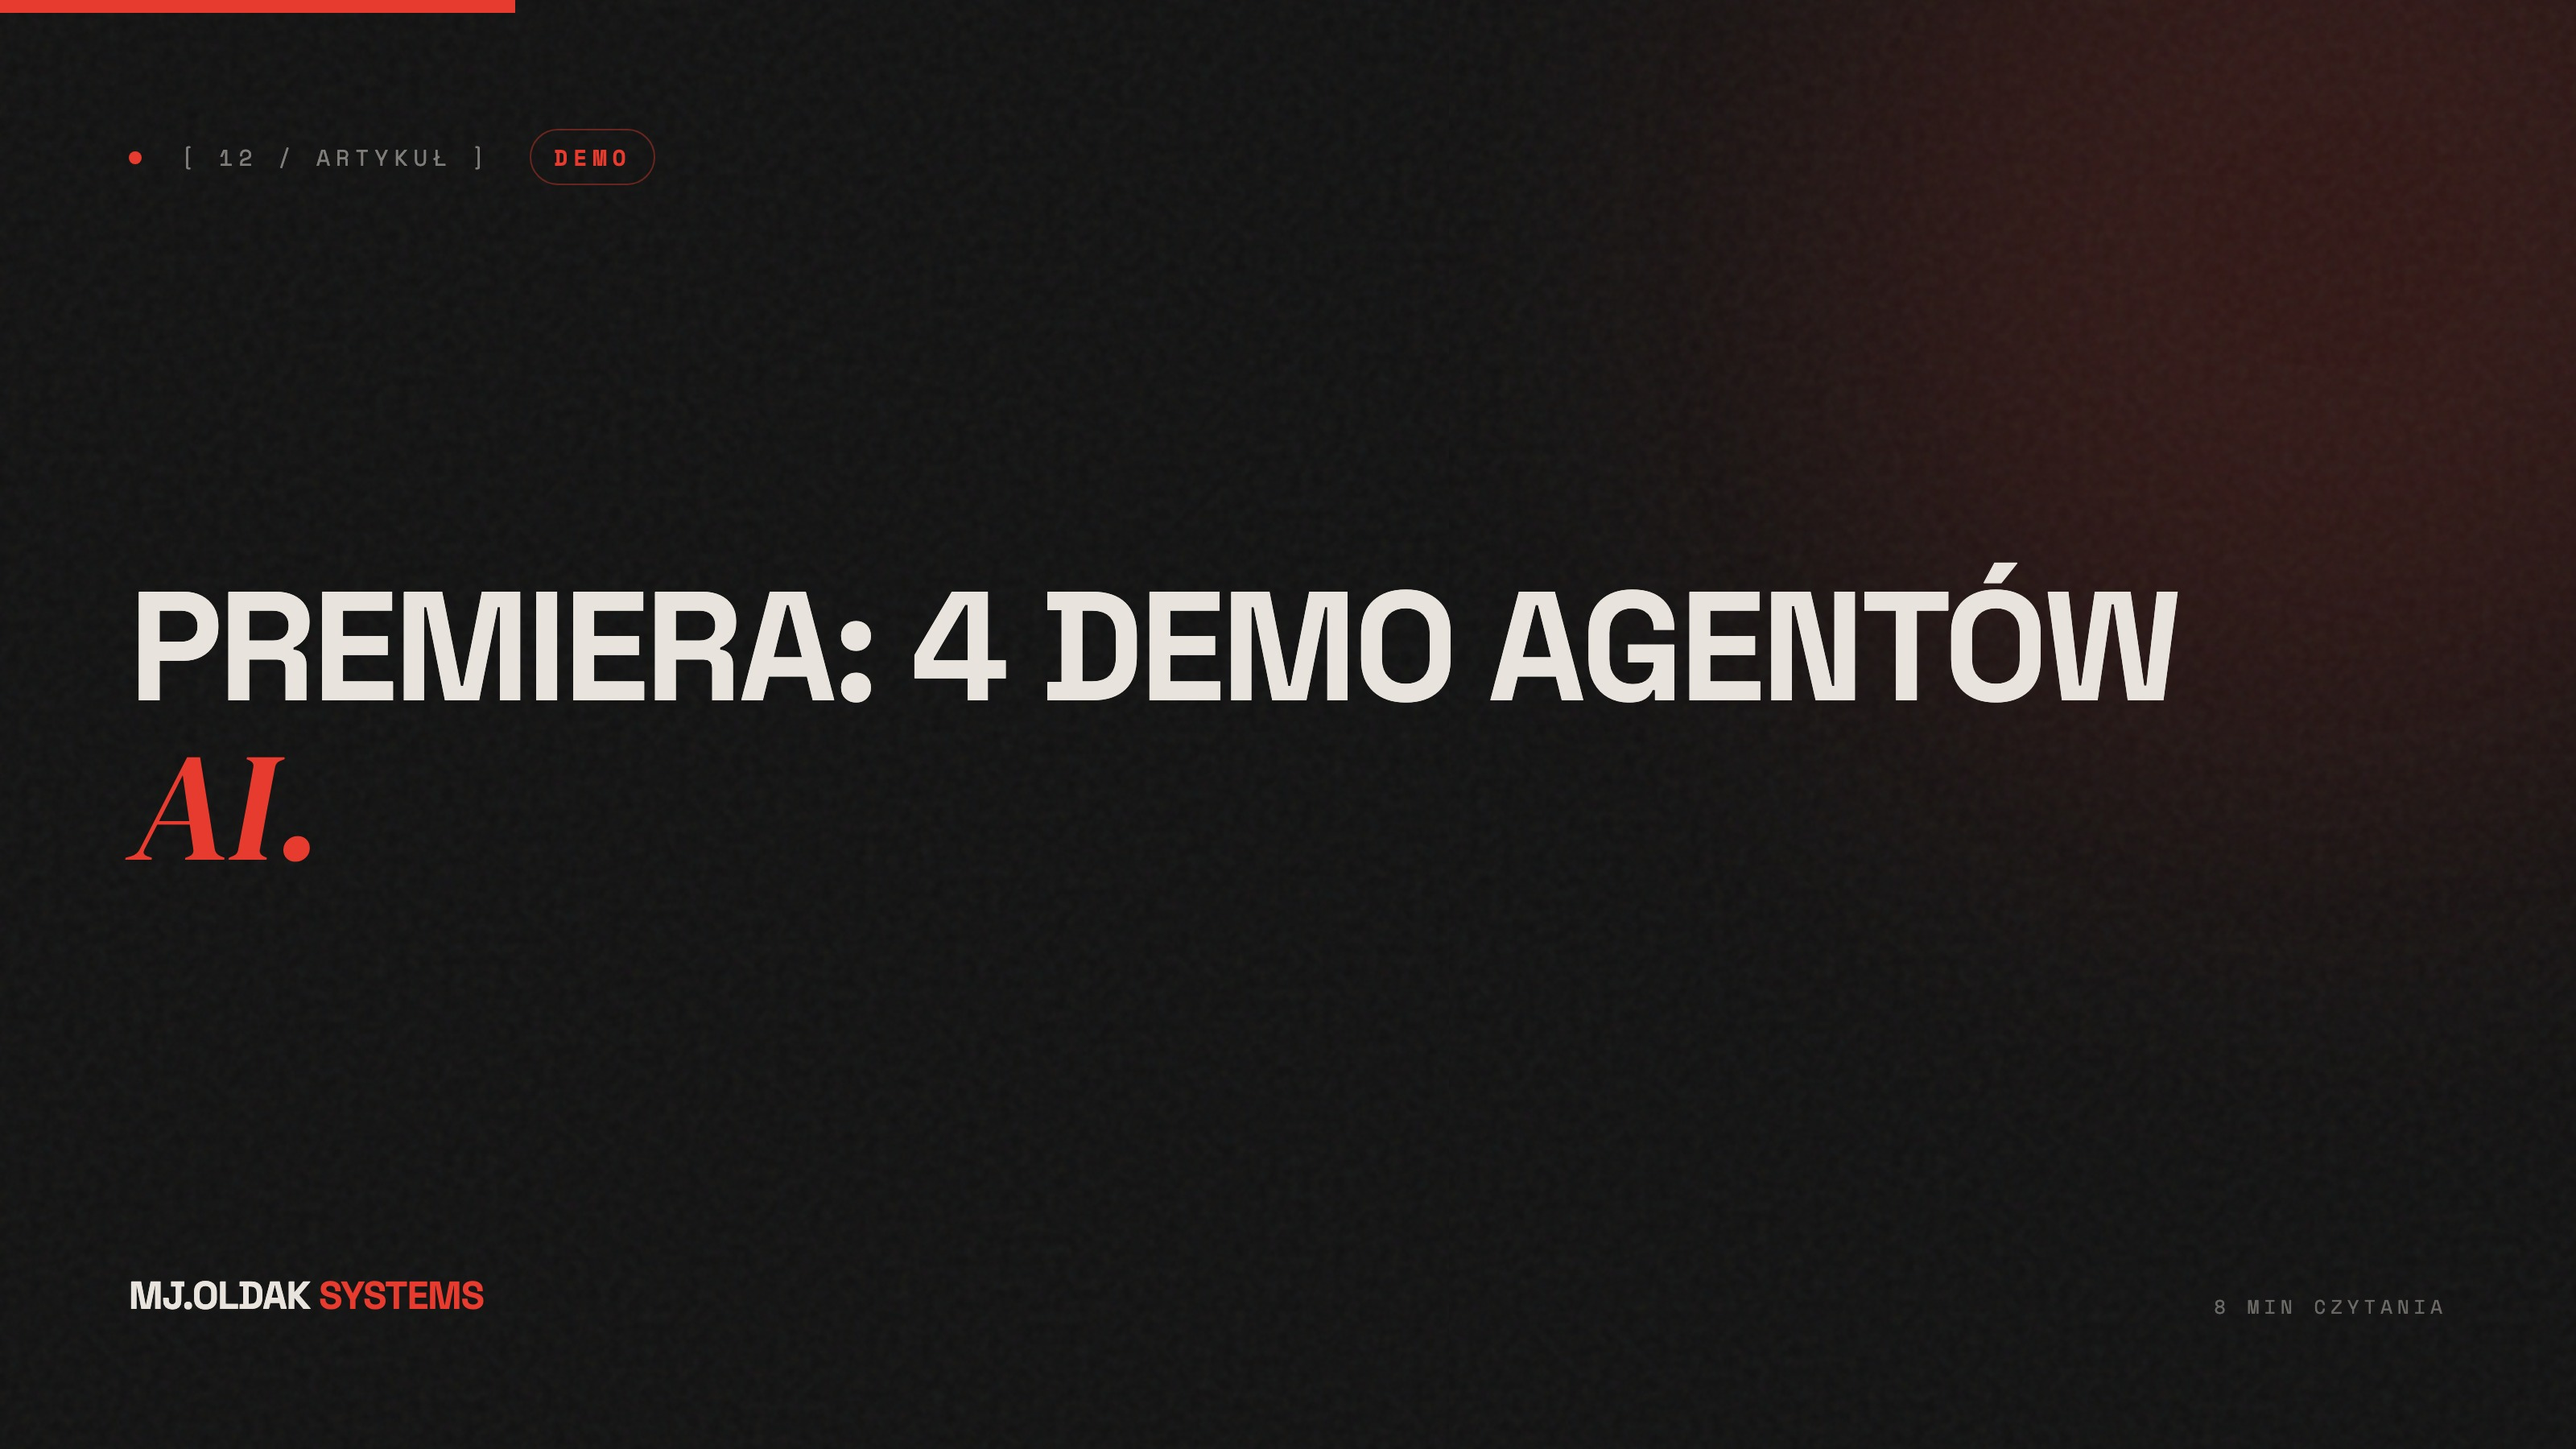
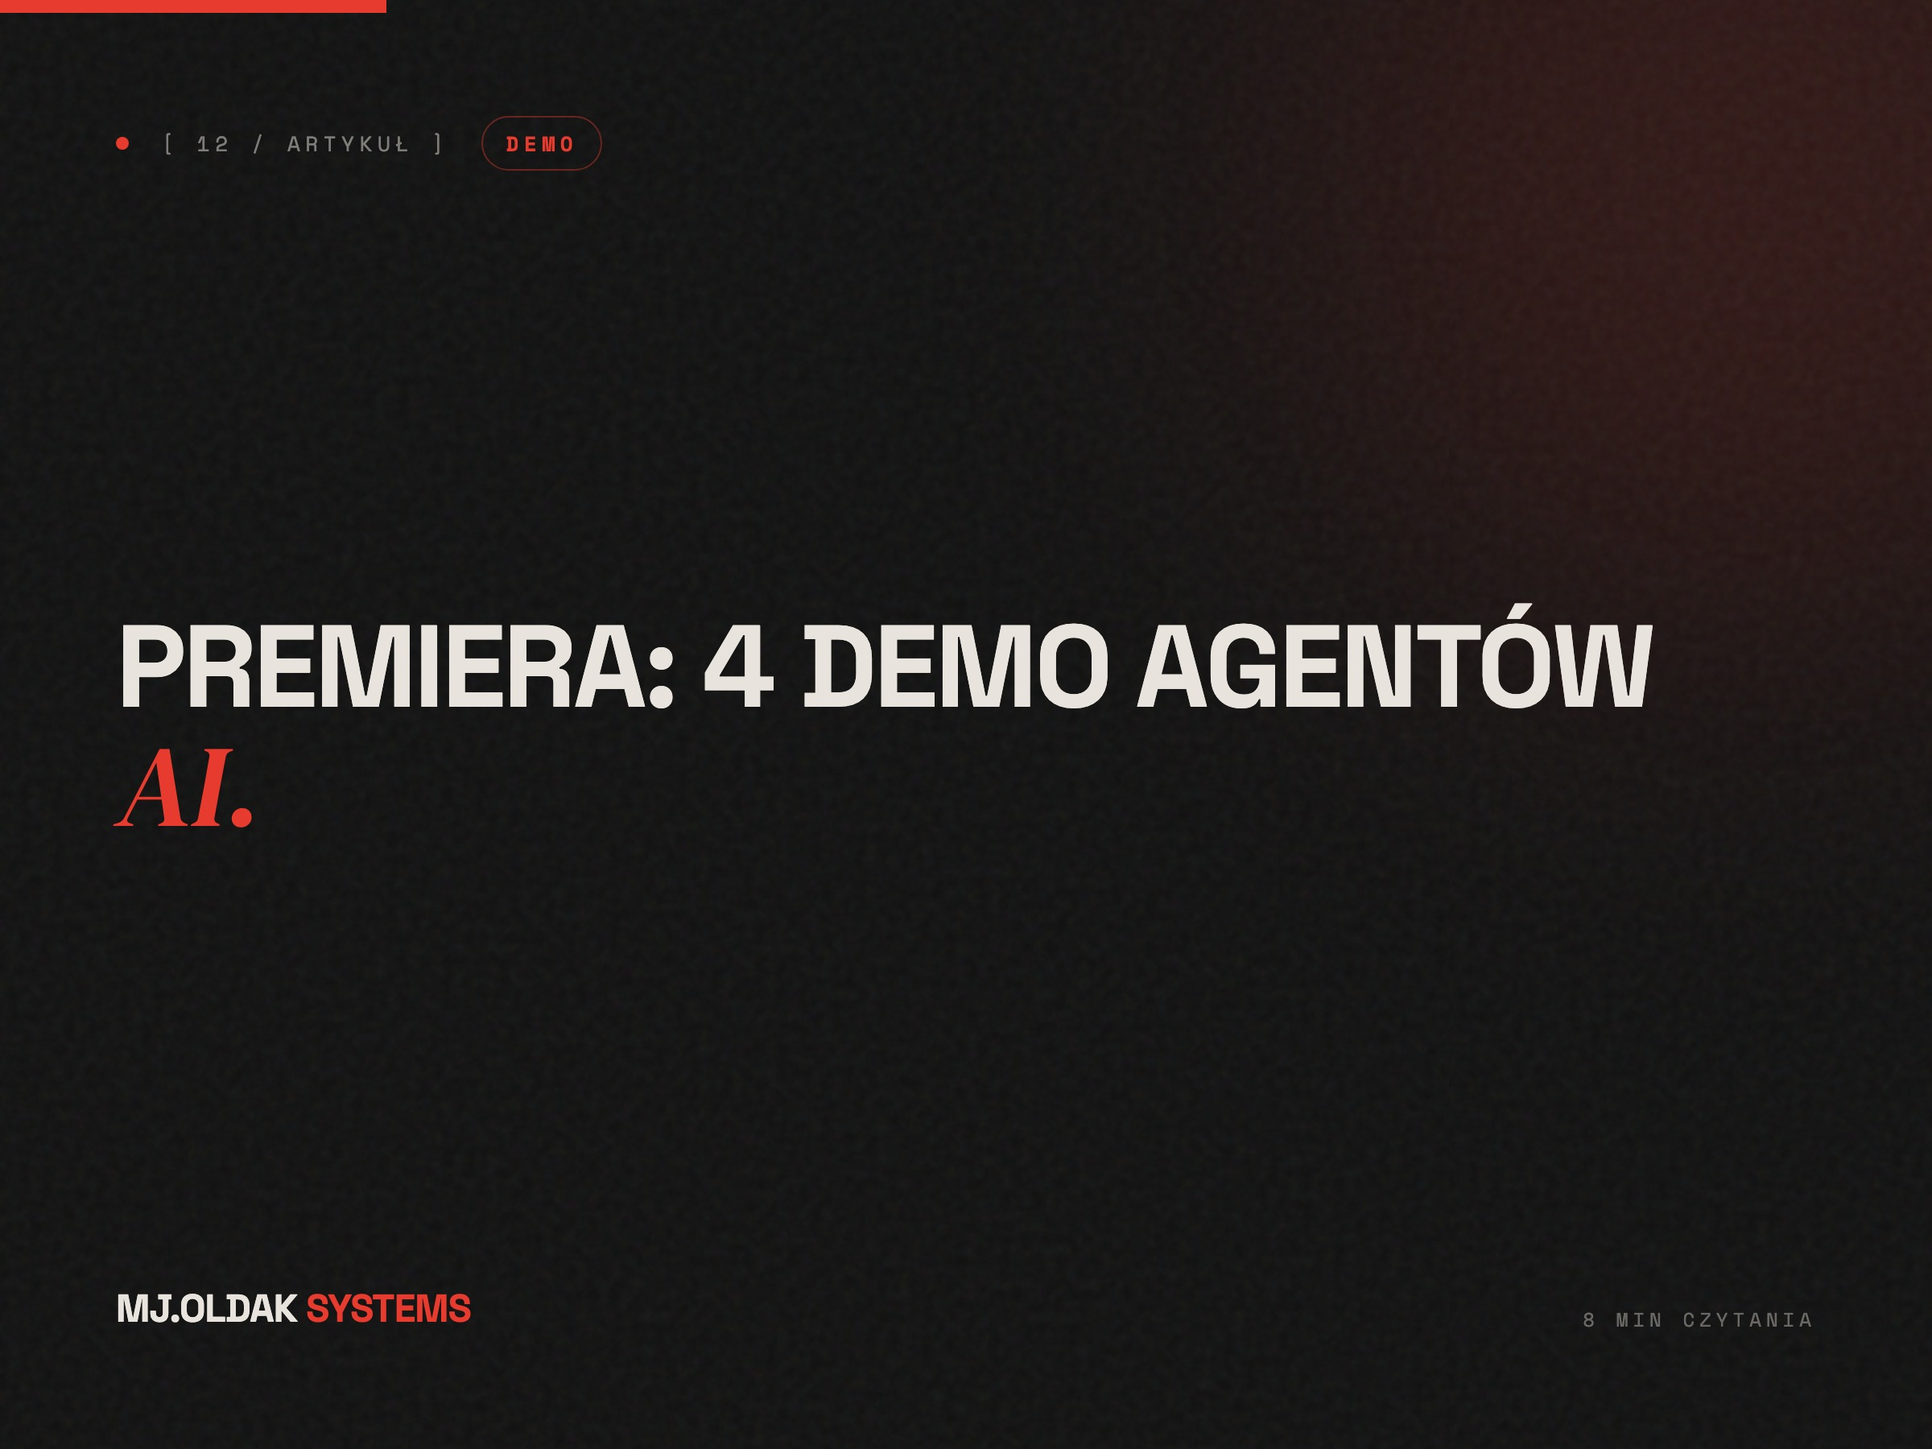
feat(ui): karuzela artykułów, cover 4:3, typografia featured
Zmiany UI po premierze 9 artykułów:

1. Cover template 4:3 (1200x900 zamiast 1600x900)
   - Poprawia wyświetlanie w kartach — bez kropowania tekstu
   - Regeneracja 12 coverów (build_visuals.py)
   - title_size recalibrated pod węższy canvas (base 84, min 52)
   - build_visuals.py: env vars MJO_OUT_COVERS/MJO_OUT_BANNERS dla build poza Documents (iCloud)

2. Karuzela 5 losowych artykułów (ArticleCarousel.jsx + Wrapper.astro)
   - Auto-advance 5,5s, hover pauzuje
   - Arrows + dots + swipe mobile
   - Seeded shuffle (stabilny per day) — preferFeatured=true
   - Zastępuje featured hero na /artykuly
   - Zastępuje LatestArticles na home (przed Footer)

3. Typografia kart (ArticlesBrowser)
   - Meta-labels: Space Mono text-[10px] → Space Grotesk 500 text-xs tracking-[0.15em]
   - Tag badges: text-[9px] → text-[10px]
   - Kategoria z font-bold + text-accent
   - Aspect: 16:9 → 4:3 (spójne z nowymi coverami)

4. /artykuly: stara sekcja "PRAKTYCZNA WIEDZA" zastąpiona karuzelą.
   Dodana sekcja "Pełna biblioteka" nad browser gridem.

diff --git a/mj-oldak/src/components/ArticleCarousel.jsx b/mj-oldak/src/components/ArticleCarousel.jsx
@@ -1,0 +1,163 @@
+import { useEffect, useRef, useState } from 'react';
+
+const AUTO_ADVANCE_MS = 5500;
+
+export default function ArticleCarousel({ articles, heading, subheading, sectionLabel }) {
+  const [index, setIndex] = useState(0);
+  const [paused, setPaused] = useState(false);
+  const touchStartX = useRef(null);
+  const count = articles.length;
+
+  useEffect(() => {
+    if (paused || count <= 1) return;
+    const id = setInterval(() => setIndex((i) => (i + 1) % count), AUTO_ADVANCE_MS);
+    return () => clearInterval(id);
+  }, [paused, count]);
+
+  if (count === 0) return null;
+
+  const go = (delta) => setIndex((i) => (i + delta + count) % count);
+
+  const onTouchStart = (e) => { touchStartX.current = e.touches[0].clientX; };
+  const onTouchEnd = (e) => {
+    if (touchStartX.current == null) return;
+    const dx = e.changedTouches[0].clientX - touchStartX.current;
+    if (Math.abs(dx) > 50) go(dx > 0 ? -1 : 1);
+    touchStartX.current = null;
+  };
+
+  return (
+    <section
+      className="relative py-24 md:py-32 px-6 md:px-12 bg-background overflow-hidden"
+      onMouseEnter={() => setPaused(true)}
+      onMouseLeave={() => setPaused(false)}
+      aria-roledescription="carousel"
+      aria-label="Polecane artykuły"
+    >
+      <div className="max-w-7xl mx-auto">
+        {(sectionLabel || heading) && (
+          <div className="mb-10 md:mb-14">
+            {sectionLabel && (
+              <div className="flex items-center gap-2 mb-4">
+                <span className="w-2 h-2 rounded-full bg-accent animate-pulse"></span>
+                <span className="font-sans font-medium text-xs uppercase tracking-[0.2em] text-dark/50">{sectionLabel}</span>
+              </div>
+            )}
+            {heading && (
+              <h2 className="font-sans font-bold text-4xl md:text-6xl uppercase tracking-tight text-dark leading-[0.95] mb-3">
+                {heading}
+              </h2>
+            )}
+            {subheading && (
+              <p className="font-mono text-base text-dark/60 max-w-2xl leading-relaxed">{subheading}</p>
+            )}
+          </div>
+        )}
+
+        <div
+          className="relative rounded-[2rem] md:rounded-[3rem] overflow-hidden border border-dark/10 bg-dark/[0.05]"
+          onTouchStart={onTouchStart}
+          onTouchEnd={onTouchEnd}
+        >
+          <div
+            className="flex transition-transform duration-700 ease-[cubic-bezier(0.65,0,0.35,1)]"
+            style={{ transform: `translateX(-${index * 100}%)` }}
+          >
+            {articles.map((a) => (
+              <a
+                key={a.slug}
+                href={`/artykuly/${a.slug}/`}
+                className="group flex-shrink-0 w-full no-underline"
+                aria-hidden={articles[index].slug !== a.slug ? 'true' : 'false'}
+                tabIndex={articles[index].slug !== a.slug ? -1 : 0}
+              >
+                <div className="grid grid-cols-1 lg:grid-cols-5">
+                  {a.cover && (
+                    <div className="lg:col-span-3 aspect-[4/3] overflow-hidden bg-dark/10">
+                      <img
+                        src={a.cover}
+                        alt={a.coverAlt || a.title}
+                        className="w-full h-full object-cover group-hover:scale-[1.02] transition-transform duration-700"
+                        loading={articles[0].slug === a.slug ? 'eager' : 'lazy'}
+                      />
+                    </div>
+                  )}
+                  <div className={`p-8 md:p-12 flex flex-col justify-center ${a.cover ? 'lg:col-span-2' : 'lg:col-span-5'}`}>
+                    <div className="flex items-center gap-2 mb-5 font-sans font-medium text-xs uppercase tracking-[0.15em] text-dark/50">
+                      <span className="font-bold text-accent">{a.category}</span>
+                      <span className="text-dark/30">·</span>
+                      <span>{a.publishedDateLabel}</span>
+                      {a.readingTime && (
+                        <>
+                          <span className="text-dark/30">·</span>
+                          <span>{a.readingTime} min czytania</span>
+                        </>
+                      )}
+                    </div>
+                    <h3 className="font-sans font-bold text-2xl md:text-3xl uppercase tracking-tight text-dark mb-4 group-hover:text-accent transition leading-tight">
+                      {a.title}
+                    </h3>
+                    <p className="font-mono text-sm text-dark/70 leading-relaxed mb-6 line-clamp-4">
+                      {a.excerpt}
+                    </p>
+                    <span className="inline-flex items-center gap-2 font-sans font-medium text-xs uppercase tracking-[0.15em] text-accent">
+                      Czytaj artykuł
+                      <svg className="w-4 h-4 group-hover:translate-x-1 transition-transform" fill="none" viewBox="0 0 24 24" stroke="currentColor">
+                        <path strokeLinecap="round" strokeLinejoin="round" strokeWidth="2" d="M17 8l4 4m0 0l-4 4m4-4H3" />
+                      </svg>
+                    </span>
+                  </div>
+                </div>
+              </a>
+            ))}
+          </div>
+
+          {count > 1 && (
+            <>
+              <button
+                type="button"
+                onClick={(e) => { e.preventDefault(); go(-1); }}
+                className="absolute top-1/2 -translate-y-1/2 left-4 md:left-6 w-11 h-11 rounded-full bg-dark/80 hover:bg-accent text-primary flex items-center justify-center backdrop-blur-sm transition-colors"
+                aria-label="Poprzedni artykuł"
+              >
+                <svg className="w-5 h-5" fill="none" viewBox="0 0 24 24" stroke="currentColor"><path strokeLinecap="round" strokeLinejoin="round" strokeWidth="2" d="M15 19l-7-7 7-7" /></svg>
+              </button>
+              <button
+                type="button"
+                onClick={(e) => { e.preventDefault(); go(1); }}
+                className="absolute top-1/2 -translate-y-1/2 right-4 md:right-6 w-11 h-11 rounded-full bg-dark/80 hover:bg-accent text-primary flex items-center justify-center backdrop-blur-sm transition-colors"
+                aria-label="Następny artykuł"
+              >
+                <svg className="w-5 h-5" fill="none" viewBox="0 0 24 24" stroke="currentColor"><path strokeLinecap="round" strokeLinejoin="round" strokeWidth="2" d="M9 5l7 7-7 7" /></svg>
+              </button>
+            </>
+          )}
+        </div>
+
+        {count > 1 && (
+          <div className="flex items-center justify-center gap-2 mt-6">
+            {articles.map((a, i) => (
+              <button
+                key={a.slug}
+                type="button"
+                onClick={() => setIndex(i)}
+                className={`h-1.5 rounded-full transition-all ${i === index ? 'w-10 bg-accent' : 'w-6 bg-dark/20 hover:bg-dark/40'}`}
+                aria-label={`Przejdź do slajdu ${i + 1}`}
+                aria-current={i === index ? 'true' : 'false'}
+              />
+            ))}
+          </div>
+        )}
+      </div>
+
+      <style>{`
+        .line-clamp-4 {
+          display: -webkit-box;
+          -webkit-line-clamp: 4;
+          -webkit-box-orient: vertical;
+          overflow: hidden;
+        }
+      `}</style>
+    </section>
+  );
+}

diff --git a/mj-oldak/src/components/ArticlesBrowser.jsx b/mj-oldak/src/components/ArticlesBrowser.jsx
@@ -105,16 +105,16 @@ export default function ArticlesBrowser({ articles, allTags }) {
                             className="group block rounded-[2rem] bg-dark/[0.05] border border-dark/10 hover:border-accent/40 hover:bg-dark/[0.07] transition-all overflow-hidden no-underline"
                         >
                             {a.cover && (
-                                <div className="aspect-[16/9] overflow-hidden bg-dark/[0.05]">
+                                <div className="aspect-[4/3] overflow-hidden bg-dark/[0.05]">
                                     <img src={a.cover} alt={a.coverAlt} className="w-full h-full object-cover group-hover:scale-105 transition-transform duration-500" loading="lazy" />
                                 </div>
                             )}
                             <div className="p-6">
-                                <div className="flex items-center gap-2 mb-3 font-mono text-[10px] uppercase tracking-widest text-dark/40">
-                                    <span className="text-accent">{a.category}</span>
-                                    <span>·</span>
+                                <div className="flex items-center gap-2 mb-3 font-sans font-medium text-xs uppercase tracking-[0.15em] text-dark/50">
+                                    <span className="font-bold text-accent">{a.category}</span>
+                                    <span className="text-dark/30">·</span>
                                     <span>{a.publishedDateLabel}</span>
-                                    {a.readingTime && <><span>·</span><span>{a.readingTime} min</span></>}
+                                    {a.readingTime && <><span className="text-dark/30">·</span><span>{a.readingTime} min</span></>}
                                 </div>
                                 <h3 className="font-sans font-bold text-lg uppercase tracking-tight text-dark mb-2 group-hover:text-accent transition leading-tight">
                                     {a.title}
@@ -124,7 +124,7 @@ export default function ArticlesBrowser({ articles, allTags }) {
                                 </p>
                                 <div className="flex flex-wrap gap-1.5">
                                     {a.tags.slice(0, 3).map((tag) => (
-                                        <span key={tag} className="font-mono text-[9px] uppercase tracking-widest px-2 py-1 rounded-full bg-dark/[0.06] text-dark/50">#{tag}</span>
+                                        <span key={tag} className="font-sans font-medium text-[10px] uppercase tracking-[0.15em] px-2 py-1 rounded-full bg-dark/[0.06] text-dark/60">#{tag}</span>
                                     ))}
                                 </div>
                             </div>
